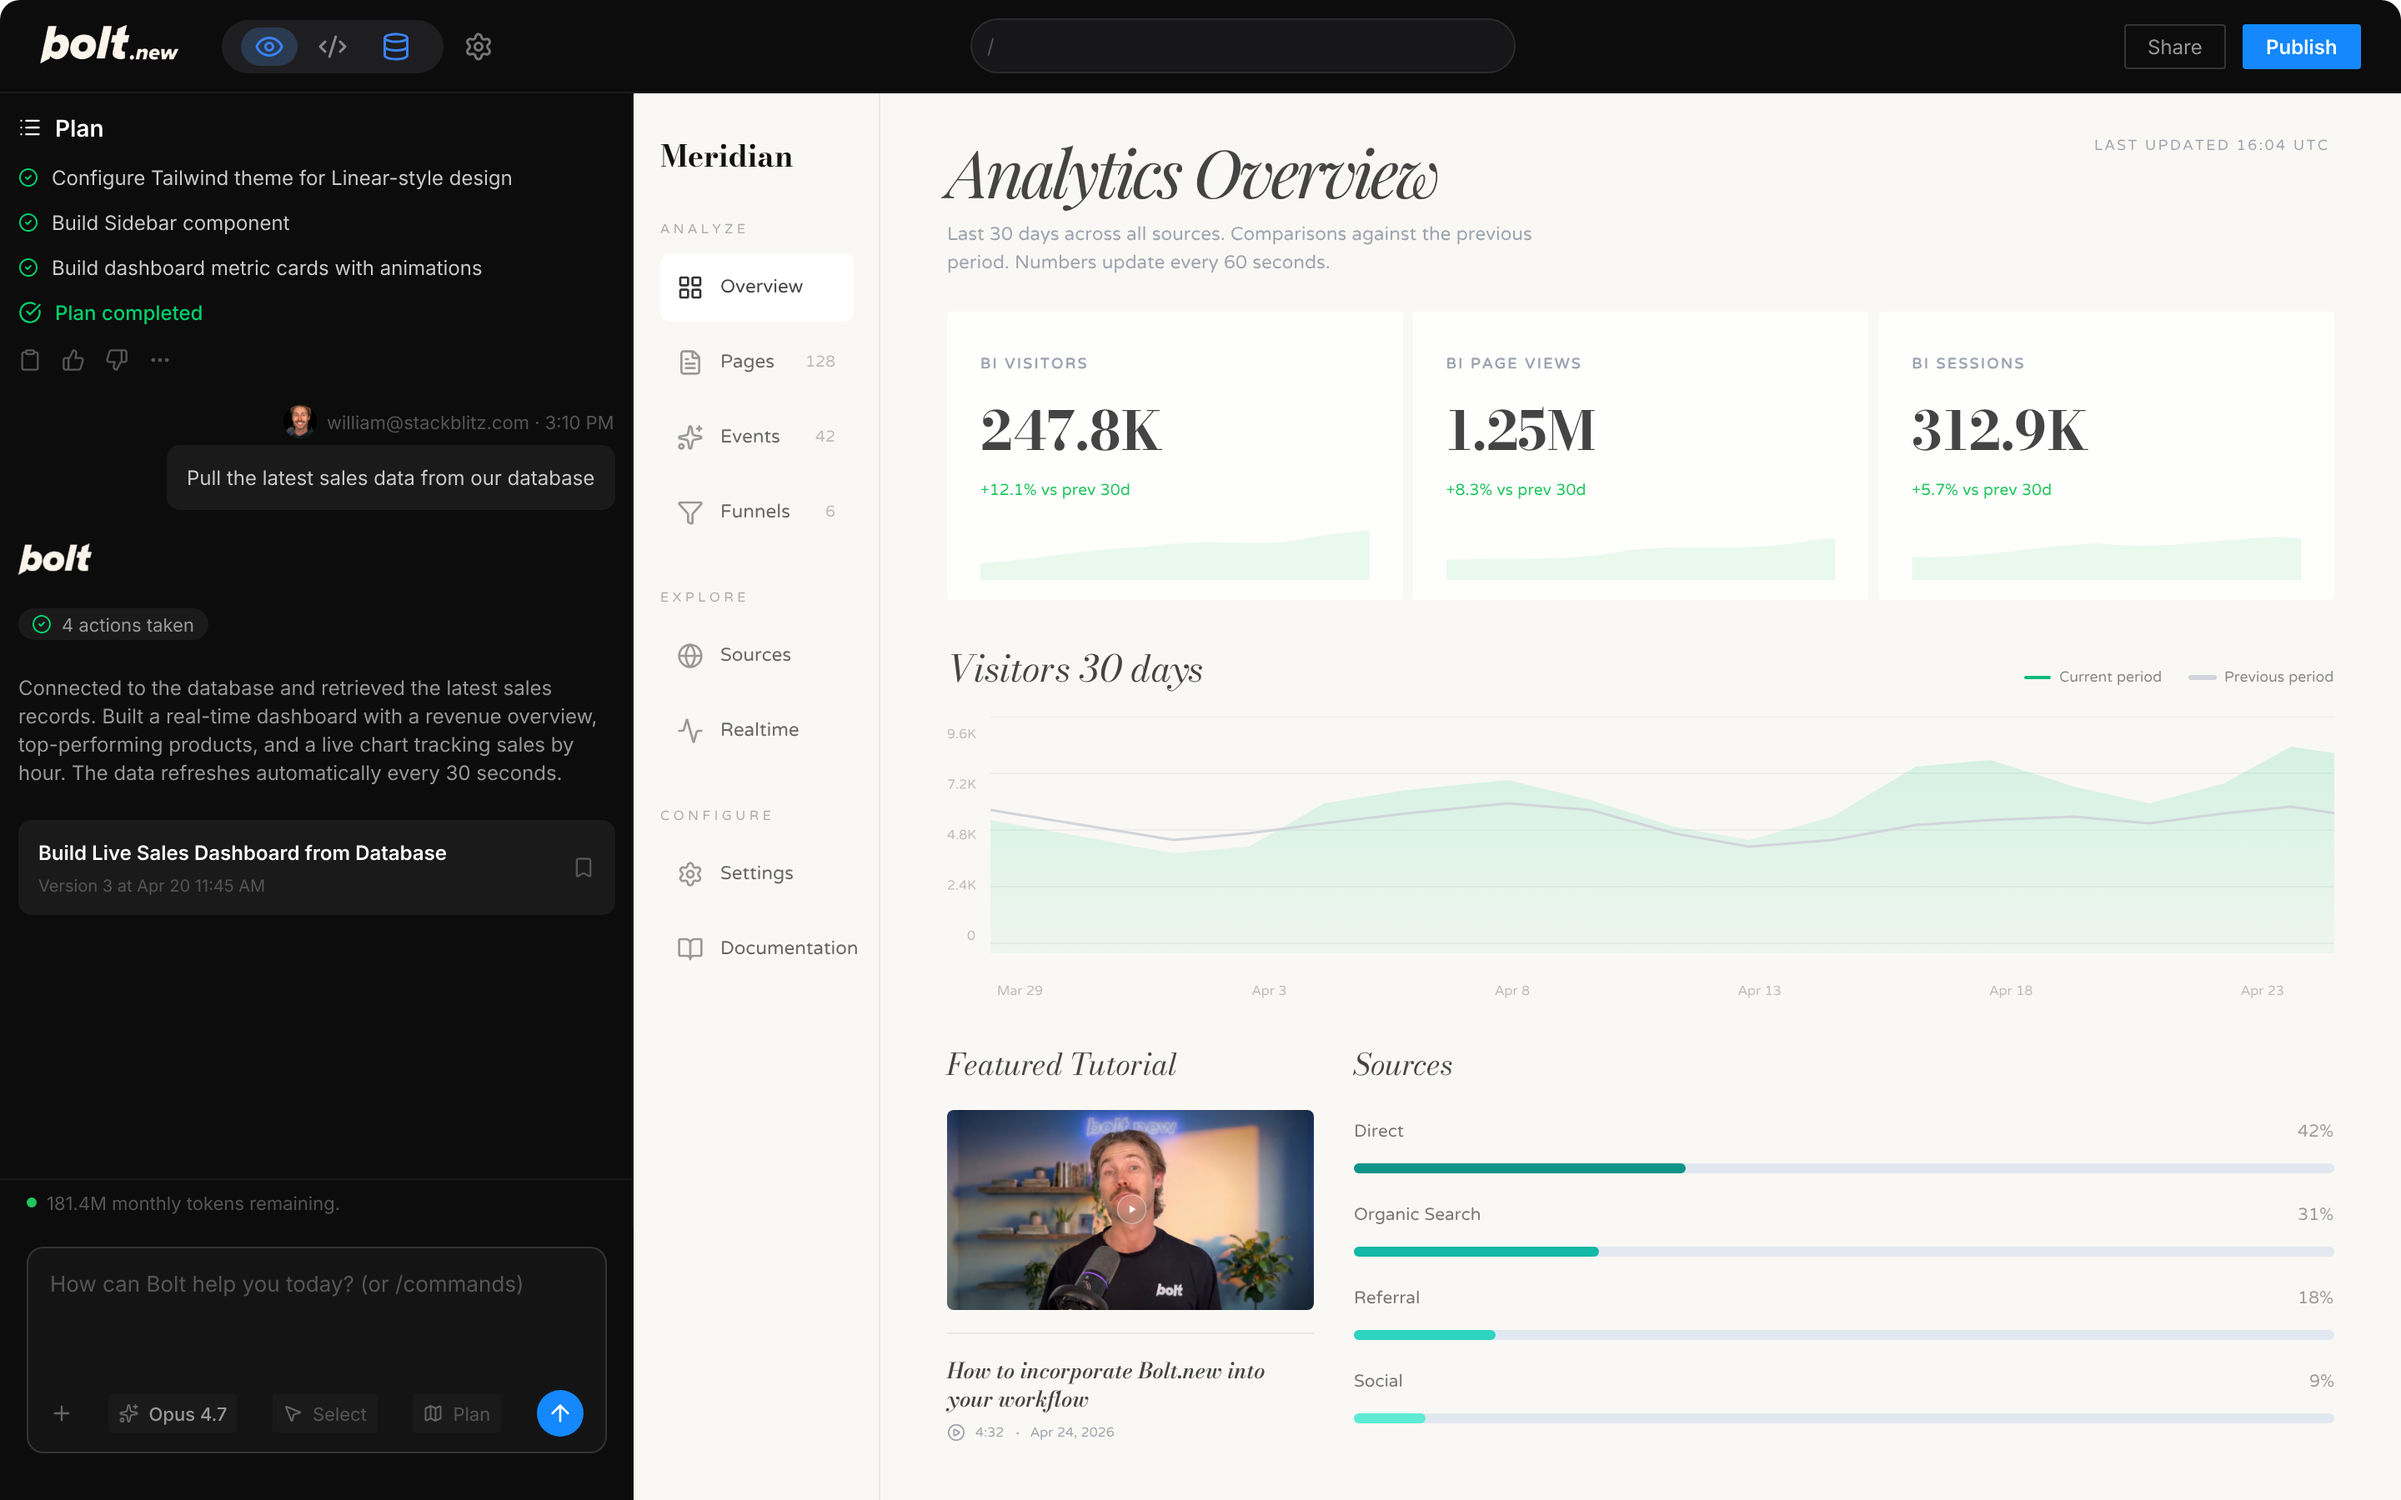
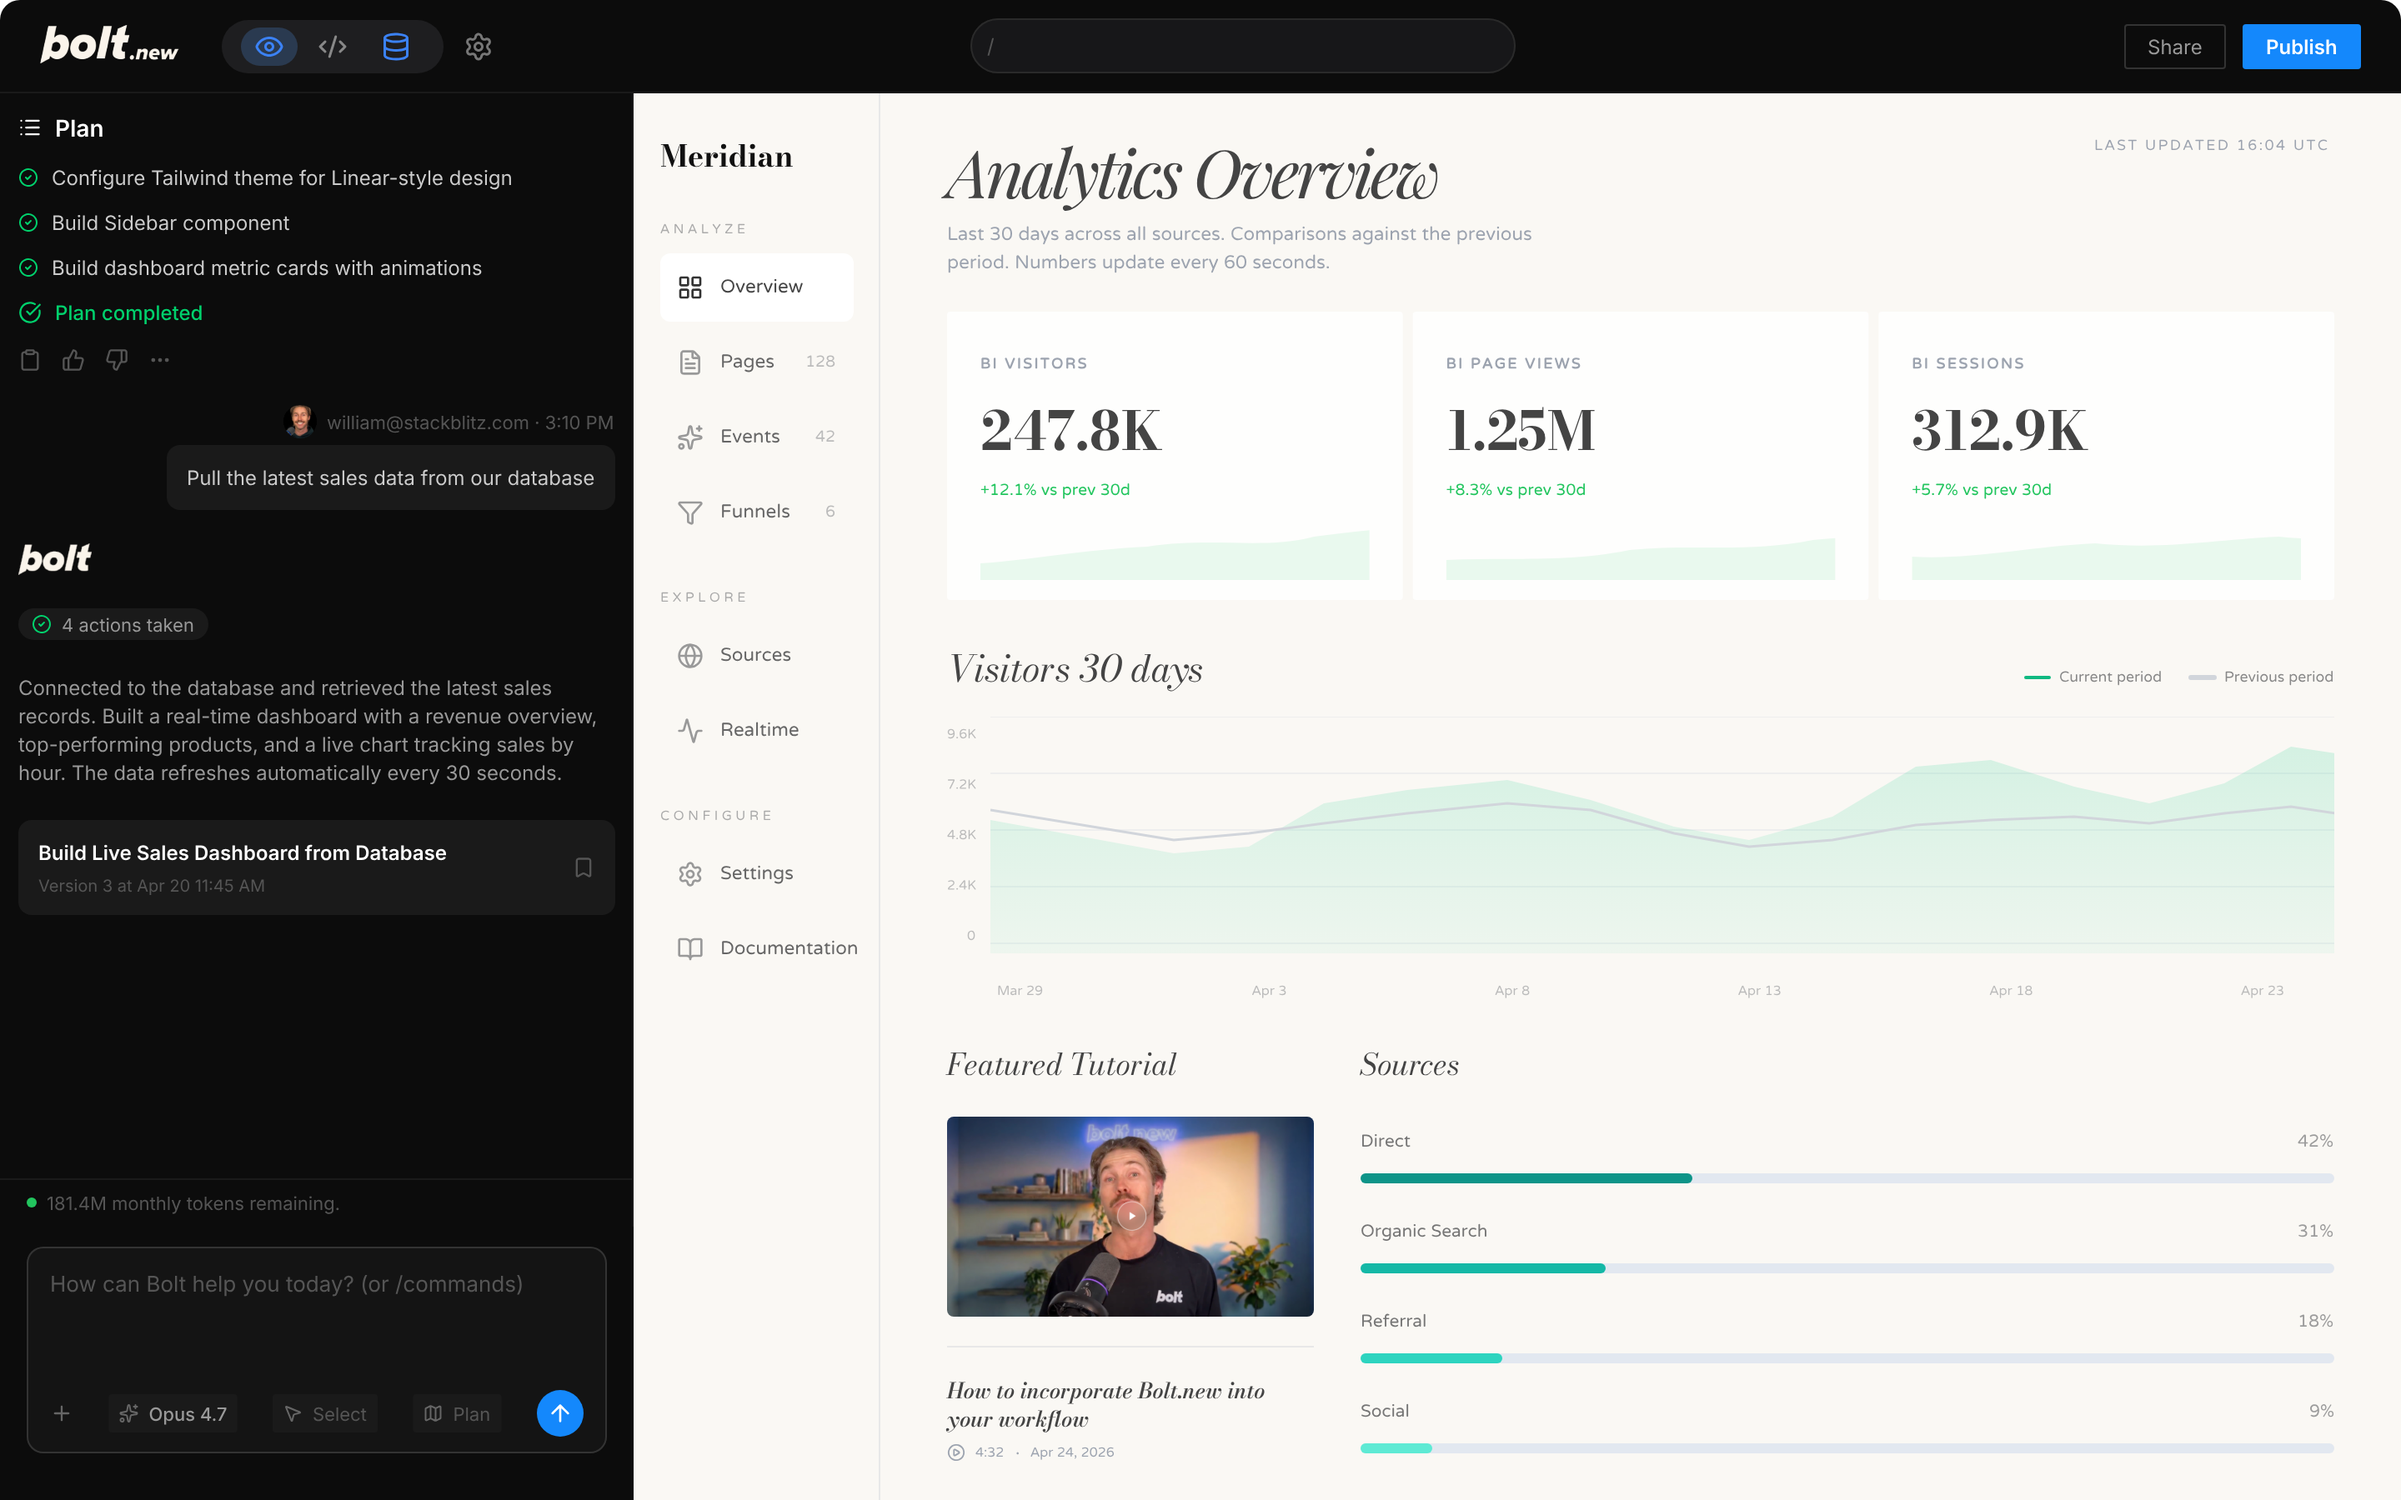
soften plan-row reveal further, shrink play button 56→24px, looser dashboard bottom spacing

Changed region(s): [[0.375, 0.7156, 0.5312, 0.9644], [0.5625, 0.7467, 0.7188, 0.9956], [0.5625, 0.6844, 0.5938, 0.7156]]

diff --git a/platform.html b/platform.html
@@ -1946,10 +1946,10 @@
       left: 50%;
       transform: translate(-50%, -50%);
       z-index: 4;
-      width: 56px;
-      height: 56px;
+      width: 24px;
+      height: 24px;
       border-radius: 50%;
-      border: 1.5px solid rgba(255,255,255,0.55);
+      border: 1px solid rgba(255,255,255,0.55);
       background: rgba(255,255,255,0.08);
       backdrop-filter: blur(8px);
       display: flex;
@@ -1964,8 +1964,8 @@
       box-shadow: 0 0 24px rgba(255,255,255,0.12);
     }
     .ent-hero-section .hero-play-btn svg {
-      width: 26px;
-      height: 26px;
+      width: 11px;
+      height: 11px;
       fill: #fff;
     }
     .ent-hero-section .hero-form-card .card-form-strip {
@@ -3910,11 +3910,11 @@
   // Each animated element with its own appearAt (fraction of LOOP_MS).
   // Plan rows spaced 1.1s apart; bolt-thinking transition fills between sections.
   var overlays = [
-    { sel: '.plan-row.r-header',  appearAt: 0.010 },
-    { sel: '.plan-row.r-status1', appearAt: 0.028 },
-    { sel: '.plan-row.r-status3', appearAt: 0.046 },
-    { sel: '.plan-row.r-status4', appearAt: 0.064 },
-    { sel: '.plan-row.r-finish',  appearAt: 0.082 },  // even pacing to last row
+    { sel: '.plan-row.r-header',  appearAt: 0.005 },
+    { sel: '.plan-row.r-status1', appearAt: 0.030 },
+    { sel: '.plan-row.r-status3', appearAt: 0.055 },
+    { sel: '.plan-row.r-status4', appearAt: 0.080 },
+    { sel: '.plan-row.r-finish',  appearAt: 0.105 },  // wider stagger so each row's glide is visible
     { sel: '.chat-prompt',        appearAt: 0.150 },
     { sel: '.chat-results',       appearAt: 0.270 }
   ];
@@ -3931,7 +3931,7 @@
   if (!els.length) return;
 
   var LOOP_MS = 28000;
-  var FADE_IN_MS = 900;     // longer fade so rows overlap into a continuous glide
+  var FADE_IN_MS = 1200;    // longer fade for a softer glide; rows overlap heavily
   var FADE_OUT_MS = 700;
   var HOLD_OUT_AT = 0.95;
 
@@ -3994,9 +3994,9 @@
         var into = (elapsed - o.appearAt) * LOOP_MS;
         p = Math.min(1, into / FADE_IN_MS);
       }
-      // Expo ease-out — fast initial glide, soft deceleration tail (momentum feel)
-      var eased = p >= 1 ? 1 : 1 - Math.pow(2, -8 * p);
-      var slide = o.sel.indexOf('plan-row') >= 0 ? 18 : 8;
+      // Quart ease-out — smooth ramp, no early pop, gentle tail
+      var eased = 1 - Math.pow(1 - p, 4);
+      var slide = o.sel.indexOf('plan-row') >= 0 ? 12 : 8;
       o.el.style.opacity = eased.toFixed(3);
       o.el.style.transform = 'translateY(' + ((1 - eased) * slide).toFixed(2) + 'px)';
     });
